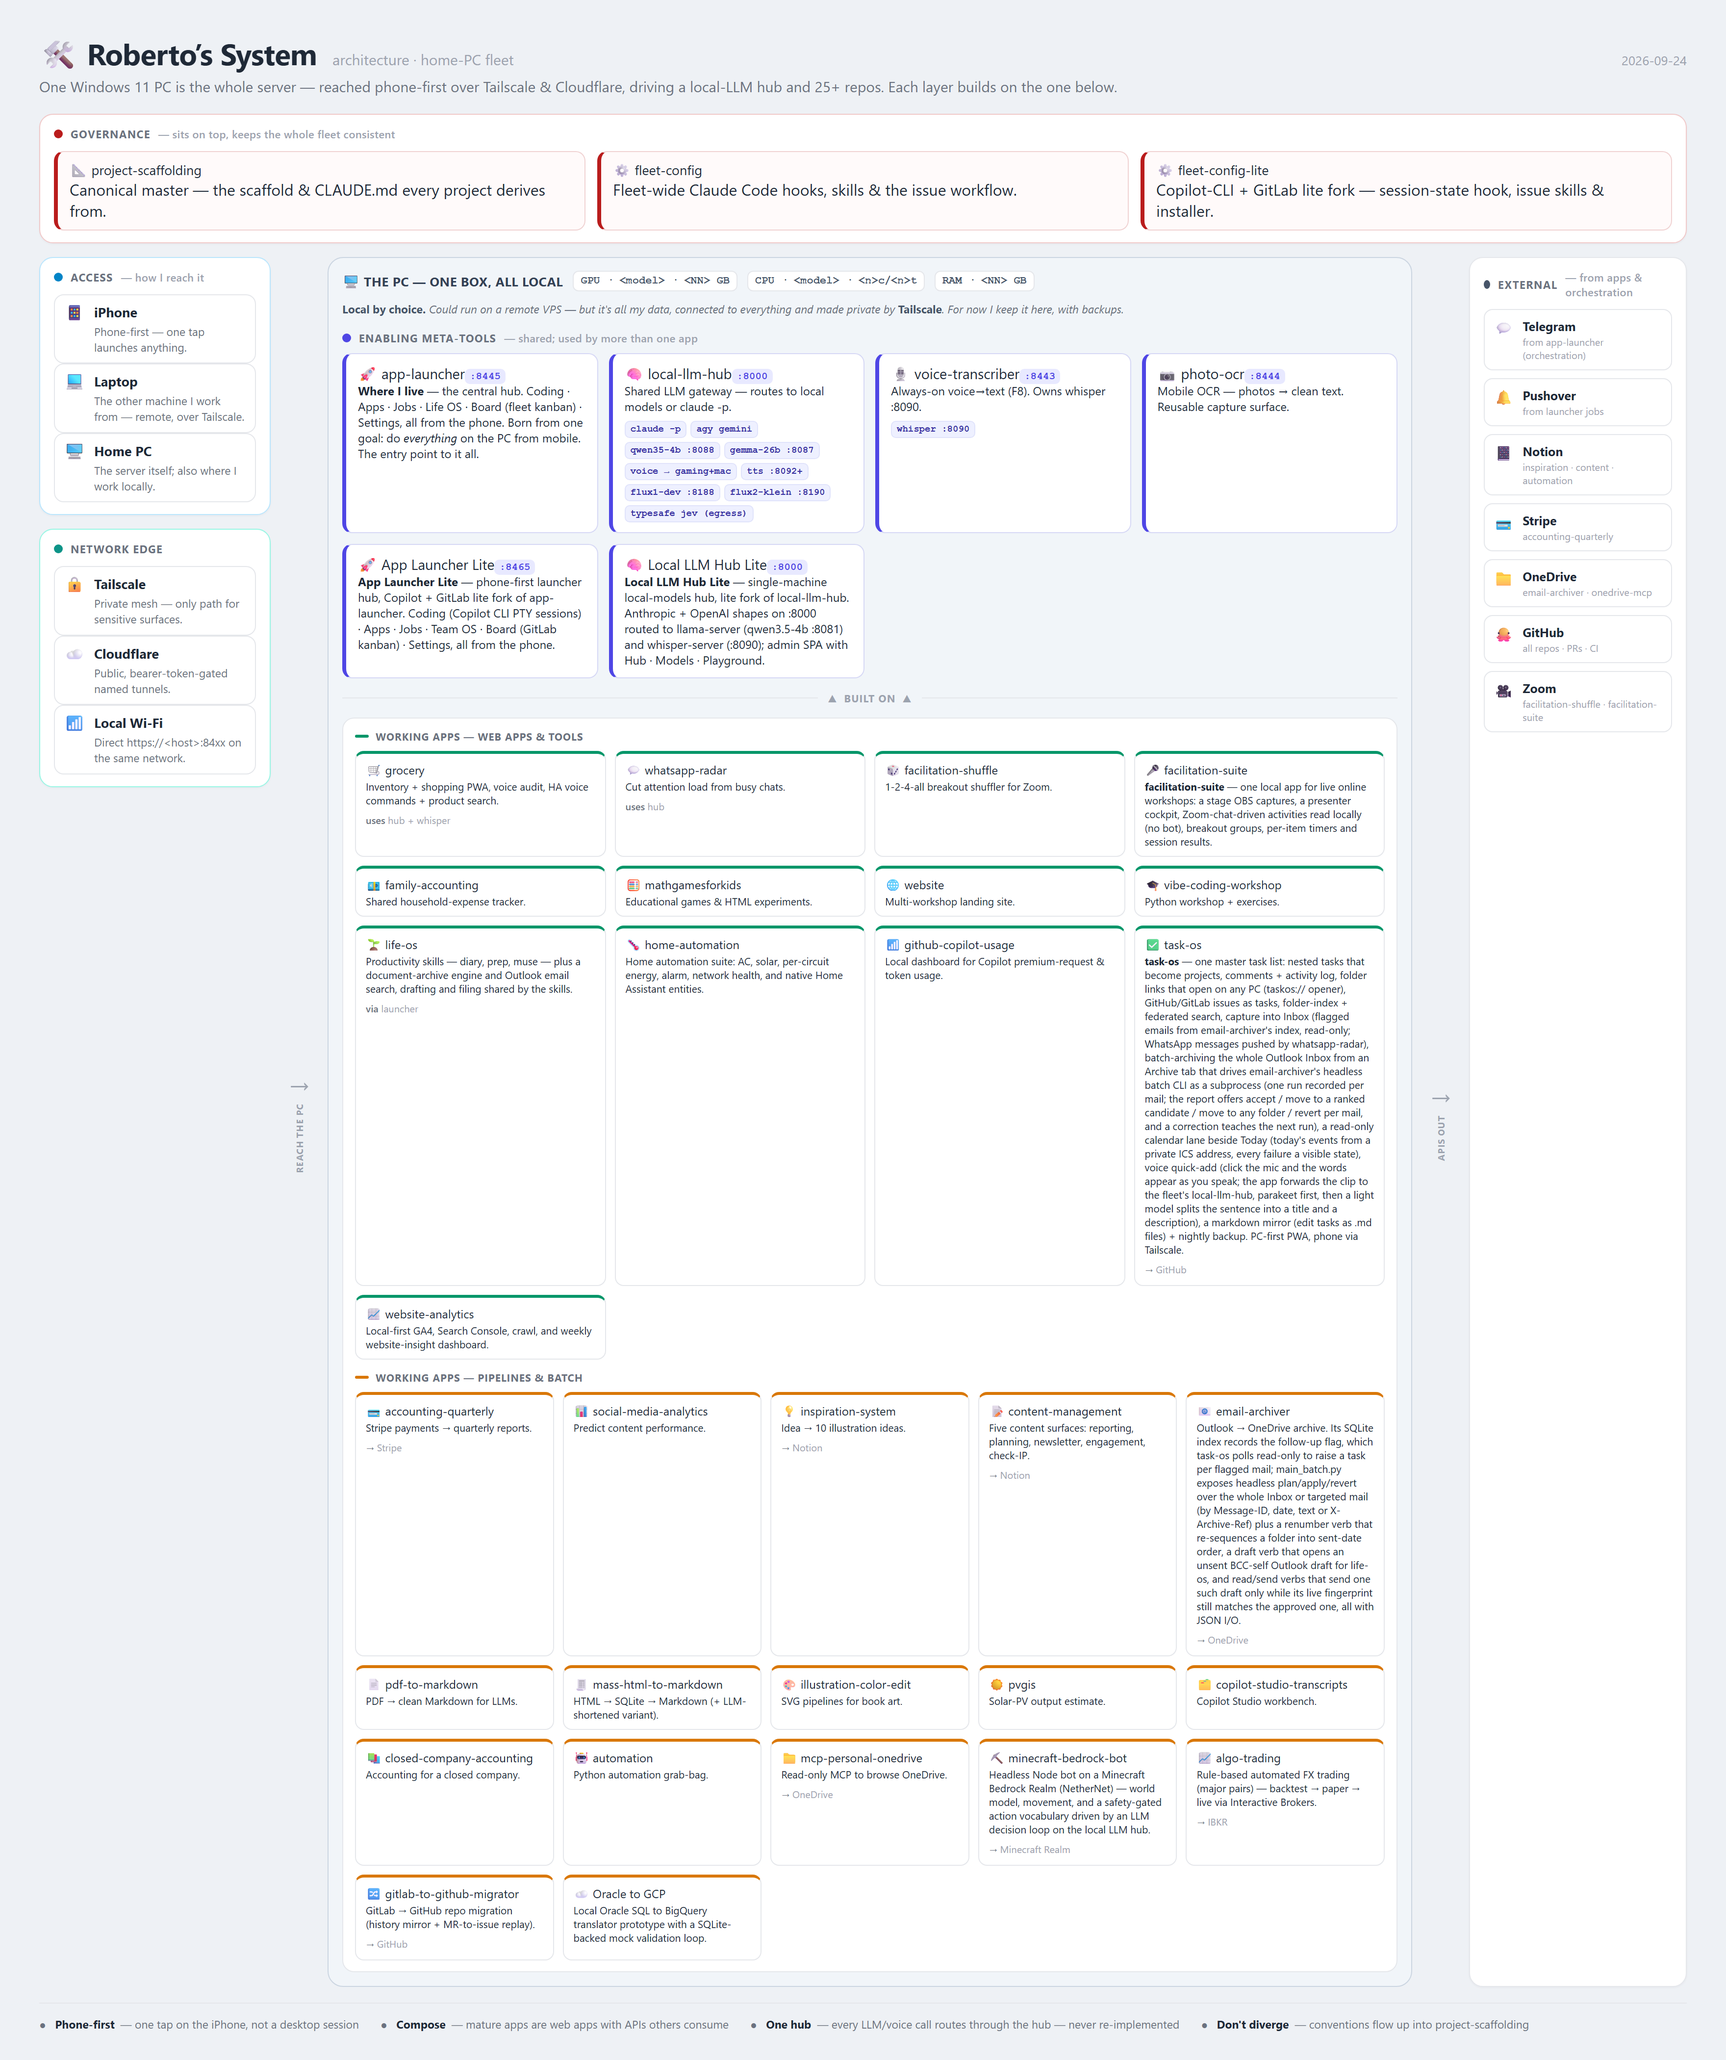
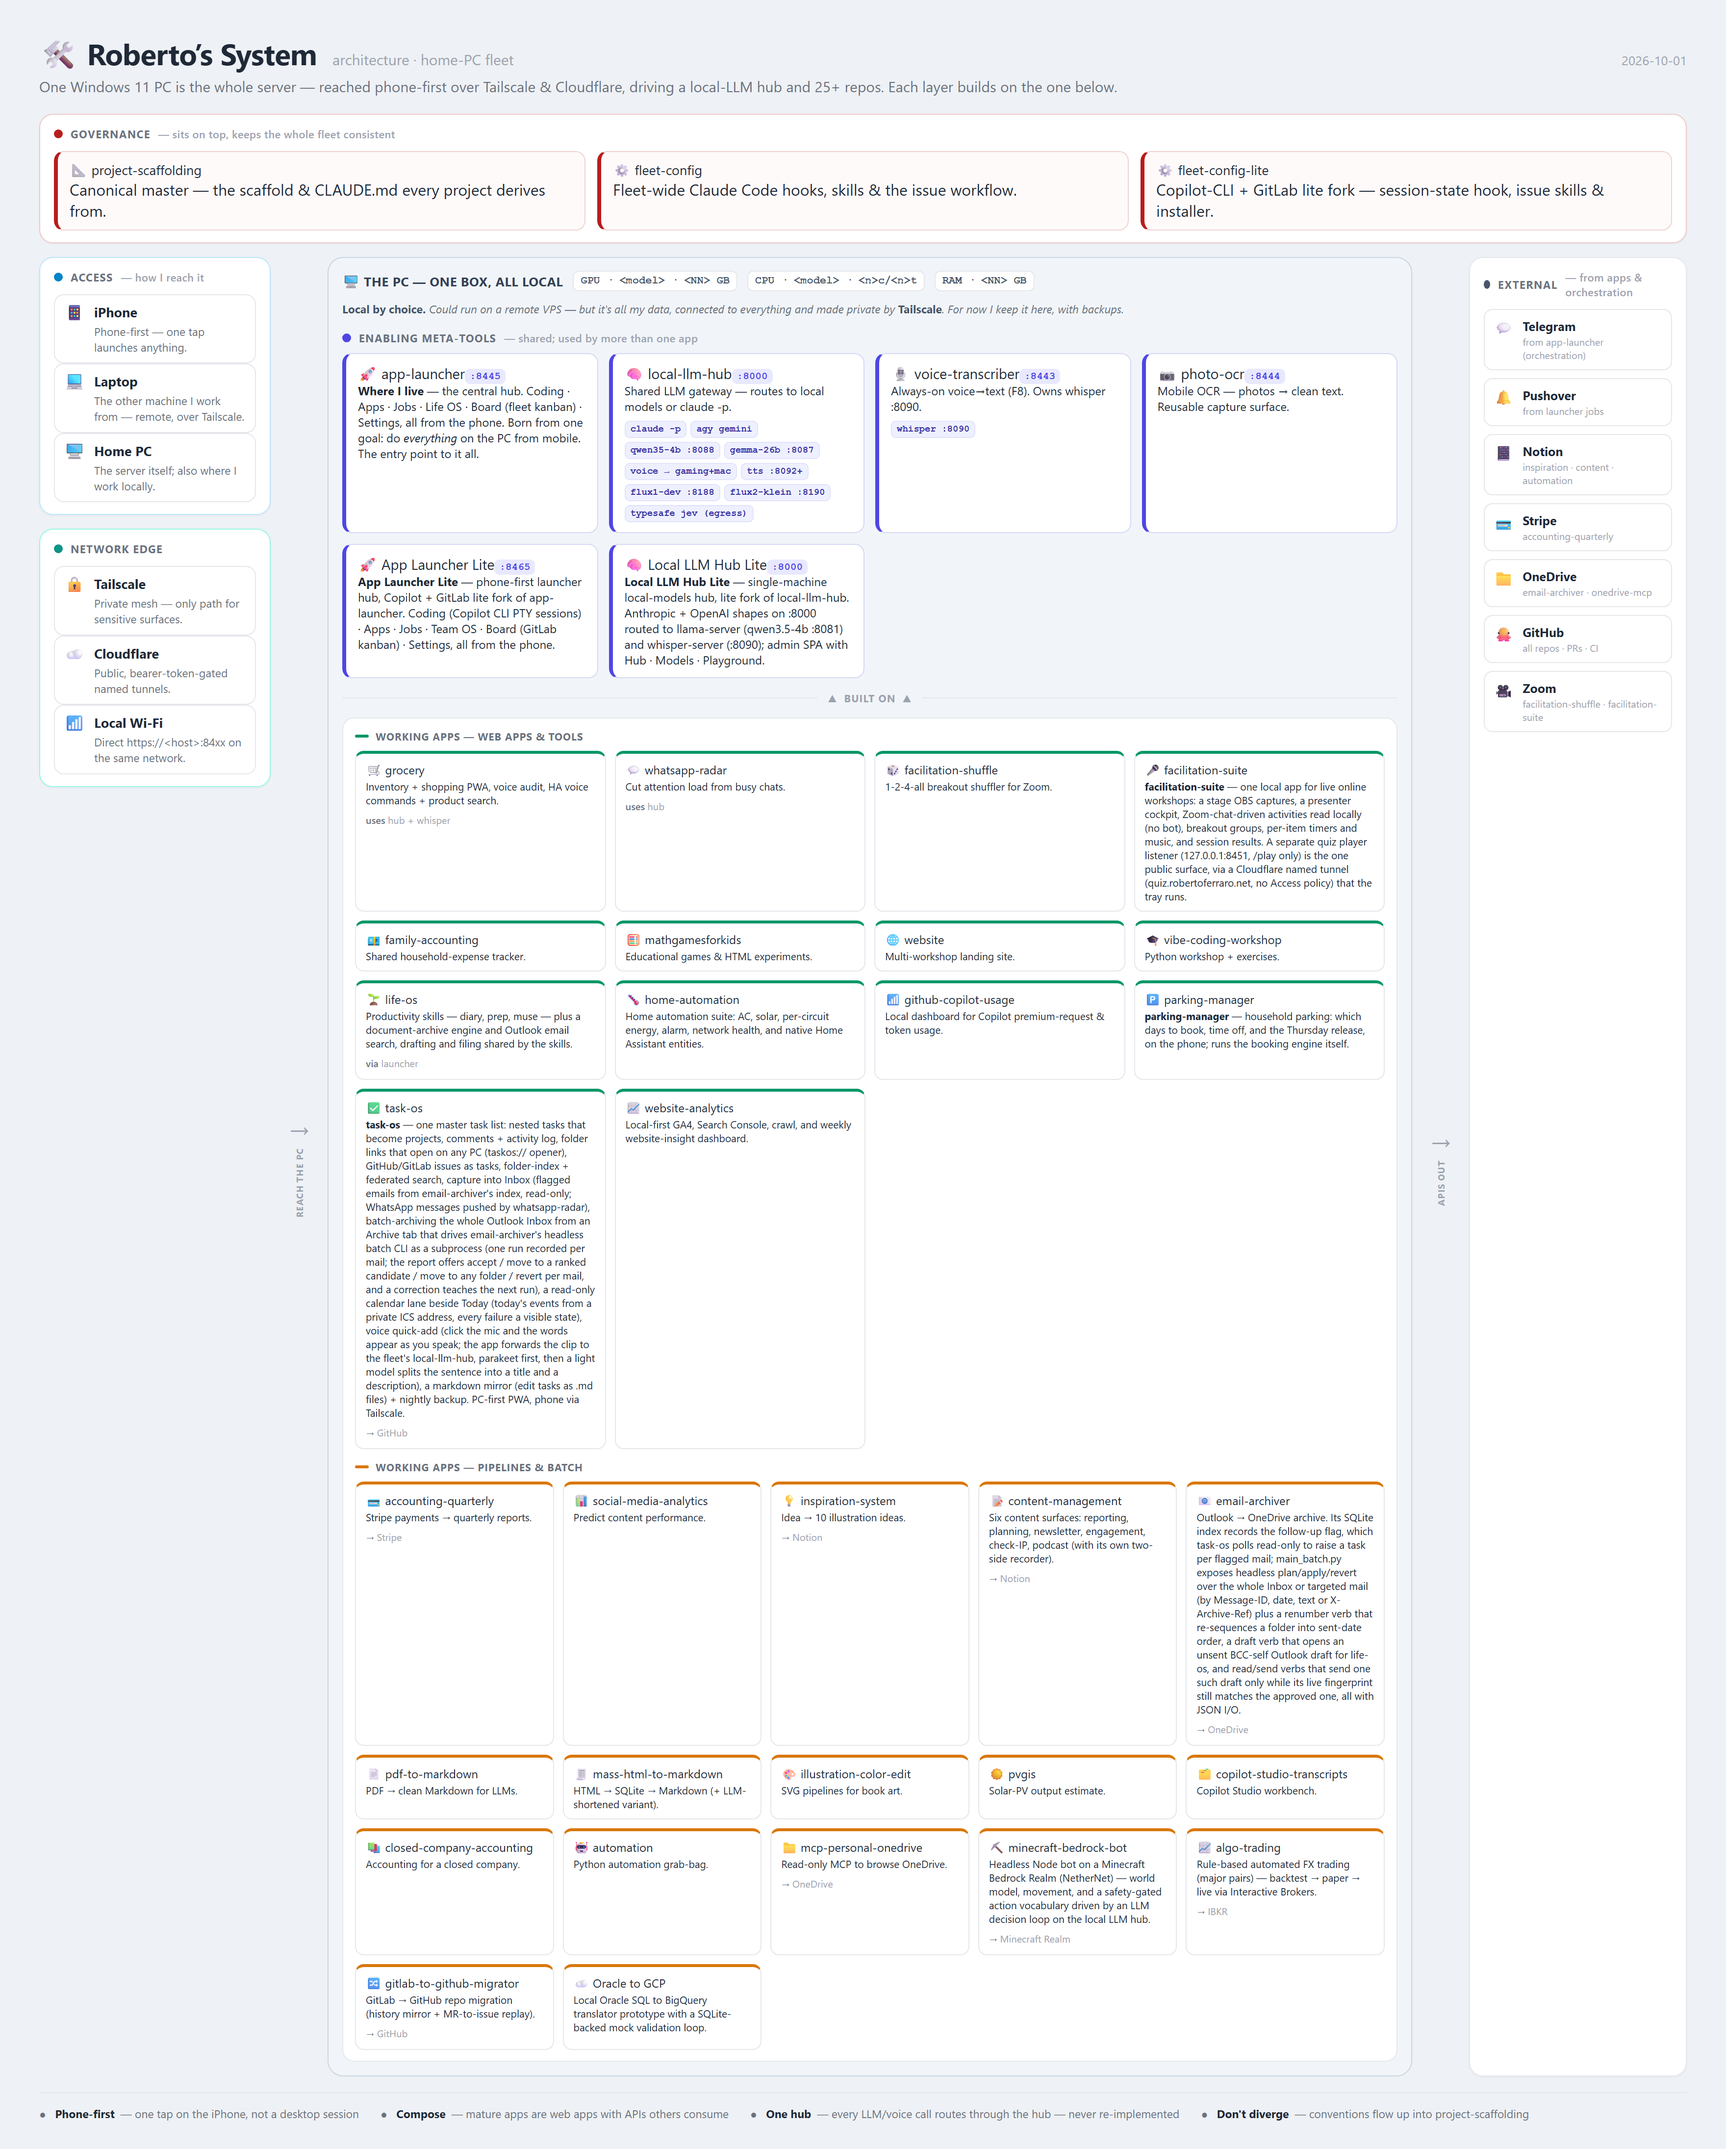
docs: refresh system map (2026-10-02)

diff --git a/architecture/fleet.data.js b/architecture/fleet.data.js
@@ -39,7 +39,7 @@ window.FLEET = {
     {"ic": "🛒", "nm": "grocery", "repo": "grocery-shopping-automation", "port": 8502, "ds": "Inventory + shopping PWA, voice audit, HA voice commands + product search.", "tag": ["uses", "hub + whisper"]},
     {"ic": "💬", "nm": "whatsapp-radar", "ds": "Cut attention load from busy chats.", "tag": ["uses", "hub"]},
     {"ic": "🎲", "nm": "facilitation-shuffle", "ds": "1-2-4-all breakout shuffler for Zoom."},
-    {"ic": "🎤", "nm": "facilitation-suite", "port": ":8449", "ds": "<b>facilitation-suite</b> — one local app for live online workshops: a stage OBS captures, a presenter cockpit, Zoom-chat-driven activities read locally (no bot), breakout groups, per-item timers and session results."},
+    {"ic": "🎤", "nm": "facilitation-suite", "port": ":8449", "ds": "<b>facilitation-suite</b> — one local app for live online workshops: a stage OBS captures, a presenter cockpit, Zoom-chat-driven activities read locally (no bot), breakout groups, per-item timers and music, and session results. A separate quiz player listener (127.0.0.1:8451, /play only) is the one public surface, via a Cloudflare named tunnel (quiz.robertoferraro.net, no Access policy) that the tray runs.", "chips": ["public: cloudflared quiz.robertoferraro.net → :8451 /play"]},
     {"ic": "💶", "nm": "family-accounting", "ds": "Shared household-expense tracker."},
     {"ic": "🧮", "nm": "mathgamesforkids", "ds": "Educational games & HTML experiments."},
     {"ic": "🌐", "nm": "website", "ds": "Multi-workshop landing site."},
@@ -47,7 +47,7 @@ window.FLEET = {
     {"ic": "🌱", "nm": "life-os", "ds": "Productivity skills — diary, prep, muse — plus a document-archive engine and Outlook email search, drafting and filing shared by the skills.", "tag": ["via", "launcher"]},
     {"ic": "🌡", "nm": "home-automation", "port": 8447, "ds": "Home automation suite: AC, solar, per-circuit energy, alarm, network health, and native Home Assistant entities.", "chips": ["FastAPI", "PWA", "MELCloud", "Modbus", "FusionSolar", "Athom", "Tuya", "HA", "Telegram"]},
     {"ic": "📶", "nm": "github-copilot-usage", "ds": "Local dashboard for Copilot premium-request &amp; token usage."},
-    {"ic": "🅿", "nm": "parking-manager", "port": ":8450", "ds": "<b>parking-manager</b> — household parking: which days to book, time off, and the Thursday release, on the phone."},
+    {"ic": "🅿", "nm": "parking-manager", "port": ":8450", "ds": "<b>parking-manager</b> — household parking: which days to book, time off, and the Thursday release, on the phone; runs the booking engine itself."},
     {"ic": "✅", "nm": "task-os", "port": ":8448", "ds": "<b>task-os</b> — one master task list: nested tasks that become projects, comments + activity log, folder links that open on any PC (taskos:// opener), GitHub/GitLab issues as tasks, folder-index + federated search, capture into Inbox (flagged emails from email-archiver's index, read-only; WhatsApp messages pushed by whatsapp-radar), batch-archiving the whole Outlook Inbox from an Archive tab that drives email-archiver's headless batch CLI as a subprocess (one run recorded per mail; the report offers accept / move to a ranked candidate / move to any folder / revert per mail, and a correction teaches the next run), a read-only calendar lane beside Today (today's events from a private ICS address, every failure a visible state), voice quick-add (click the mic and the words appear as you speak; the app forwards the clip to the fleet's local-llm-hub, parakeet first, then a light model splits the sentence into a title and a description), a markdown mirror (edit tasks as .md files) + nightly backup. PC-first PWA, phone via Tailscale.", "tag": ["→", "GitHub"]},
     {"ic": "📈", "nm": "website-analytics", "ds": "Local-first GA4, Search Console, crawl, and weekly website-insight dashboard."}
   ],
@@ -55,7 +55,7 @@ window.FLEET = {
     {"ic": "💳", "nm": "accounting-quarterly", "ds": "Stripe payments → quarterly reports.", "tag": ["→", "Stripe"]},
     {"ic": "📊", "nm": "social-media-analytics", "ds": "Predict content performance."},
     {"ic": "💡", "nm": "inspiration-system", "ds": "Idea → 10 illustration ideas.", "tag": ["→", "Notion"]},
-    {"ic": "📝", "nm": "content-management", "ds": "Five content surfaces: reporting, planning, newsletter, engagement, check-IP.", "tag": ["→", "Notion"]},
+    {"ic": "📝", "nm": "content-management", "ds": "Six content surfaces: reporting, planning, newsletter, engagement, check-IP, podcast (with its own two-side recorder).", "tag": ["→", "Notion"]},
     {"ic": "📧", "nm": "email-archiver", "ds": "Outlook → OneDrive archive. Its SQLite index records the follow-up flag, which task-os polls read-only to raise a task per flagged mail; main_batch.py exposes headless plan/apply/revert over the whole Inbox or targeted mail (by Message-ID, date, text or X-Archive-Ref) plus a renumber verb that re-sequences a folder into sent-date order, a draft verb that opens an unsent BCC-self Outlook draft for life-os, and read/send verbs that send one such draft only while its live fingerprint still matches the approved one, all with JSON I/O.", "tag": ["→", "OneDrive"]},
     {"ic": "📄", "nm": "pdf-to-markdown", "ds": "PDF → clean Markdown for LLMs."},
     {"ic": "🧾", "nm": "mass-html-to-markdown", "ds": "HTML → SQLite → Markdown (+ LLM-shortened variant)."},
